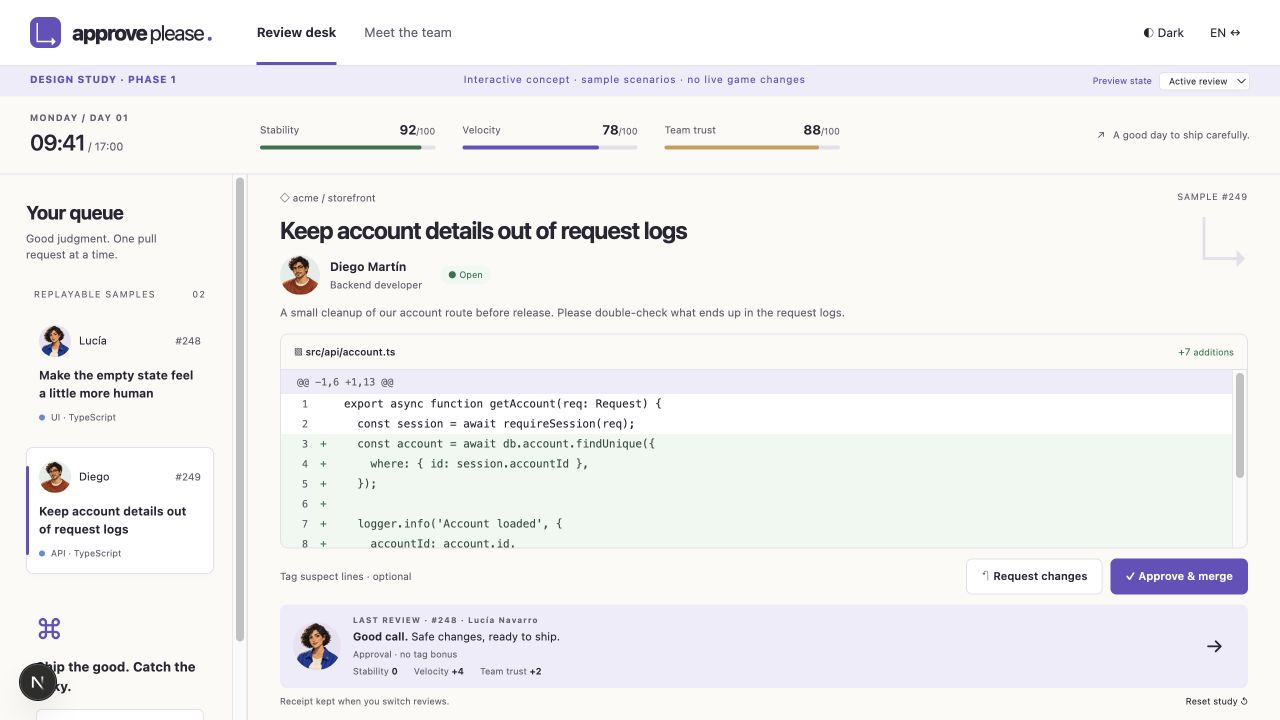
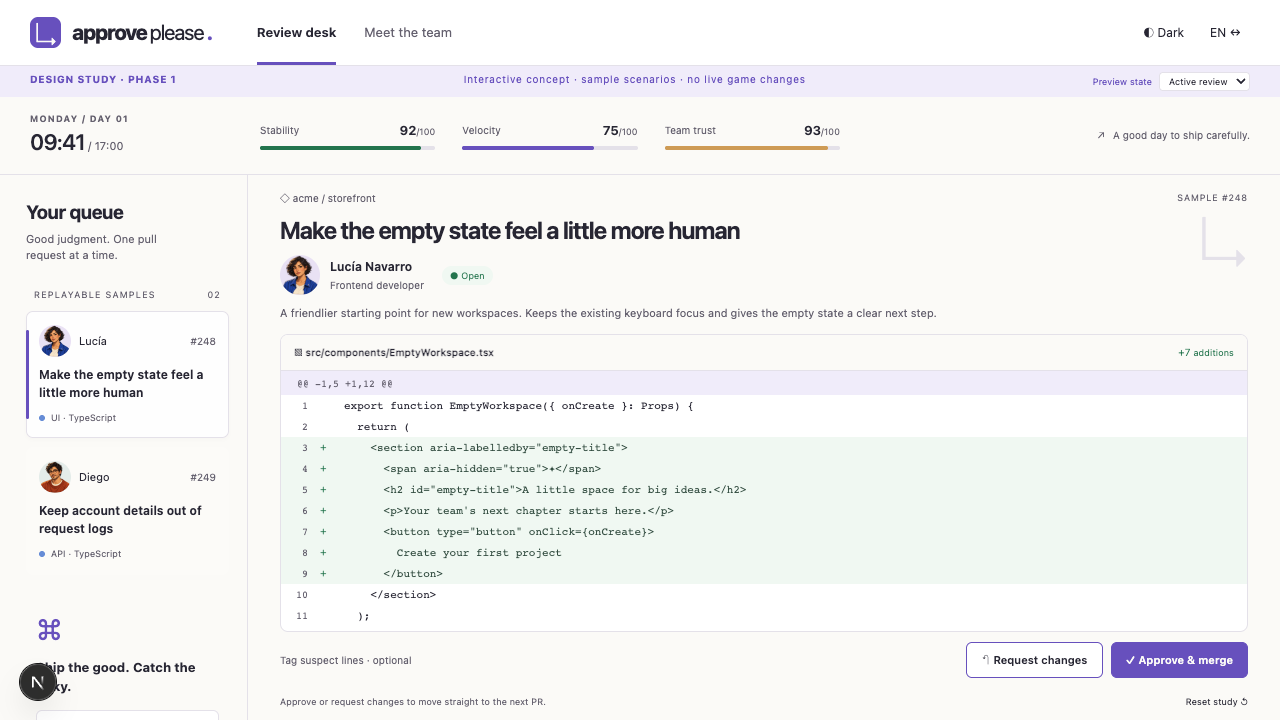
feat: auto-advance design reviews with a quick swipe

diff --git a/constants/designStudyCopy.ts b/constants/designStudyCopy.ts
@@ -1,9 +1,9 @@
 /** Isolated, bilingual design-study content; exposed through the main translation table. */
 export const designStudyCopy = {
   en: {
-    previewState: 'Preview state', activeState: 'Active review', emptyState: 'Empty queue', emptyTitle: 'All caught up. Take a breath.', emptyBody: 'The next review will appear here when a teammate sends it. Your last receipt stays available.', emptyHint: 'No pull requests waiting', completed: 'Reviewed · switch PR or reset to replay', preview: 'DESIGN STUDY · PHASE 1', previewNote: 'Interactive concept · sample scenarios · no live game changes', desk: 'Review desk', cast: 'Meet the team', theme: 'Switch color theme', queue: 'Your queue', queueHint: 'Good judgment. One pull request at a time.', waiting: 'REPLAYABLE SAMPLES', rules: 'Review handbook', rulesIntro: 'Ship the good. Catch the risky.', rulesBody: 'Approve changes that are safe to ship. Request changes when you find a bug. Tagging is optional: a correct rejection still counts. Precise tags earn a bonus; unrelated tags do not.', rulesNote: 'This concept has no timer. Your decisions update sample meters only.', close: 'Close', shift: 'MONDAY / DAY 01', time: '09:41', stability: 'Stability', velocity: 'Velocity', satisfaction: 'Team trust', repository: 'acme / storefront', branch: 'feature / a-little-more-polish', reviewedBadge: 'Reviewed', open: 'Open', changed: 'Changed file', additions: 'additions', context: 'context', select: 'Tag line', selected: 'lines tagged', optional: 'Tag suspect lines · optional', request: 'Request changes', approve: 'Approve & merge', reset: 'Reset study', noReceipt: 'Your next decision deserves a clear explanation.', receiptHint: 'A review receipt stays here when you move to another PR.', receipt: 'LAST REVIEW', correct: 'Good call.', incorrect: 'Worth another look.', precise: 'Precise tags · bonus earned', untagged: 'No tags · verdict still evaluated', inaccurate: 'Tags did not identify a bug', mixed: 'Mixed tags · no precision bonus', notApplicable: 'Approval · no tag bonus', cleanOutcome: 'Safe changes, ready to ship.', caughtOutcome: 'Bug caught before production.', escapedOutcome: 'A bug slipped into production.', falseOutcome: 'These changes were safe to ship.', reviewed: 'Reviewed · replay available', next: 'Review next PR', luciaRole: 'Frontend developer', diegoRole: 'Backend developer', luciaTitle: 'Make the empty state feel a little more human', diegoTitle: 'Keep account details out of request logs', luciaDescription: 'A friendlier starting point for new workspaces. Keeps the existing keyboard focus and gives the empty state a clear next step.', diegoDescription: 'A small cleanup of our account route before release. Please double-check what ends up in the request logs.', luciaMessage: '“The first empty screen is part of the product, too.”', diegoMessage: '“Small diff. Still deserves a proper look.”', sample: 'SAMPLE', teamHeading: 'People behind the pull requests.', teamIntro: 'Two coworkers. Three expressions. A visual study for a team you will get to know through its work.', neutral: 'Neutral', pleased: 'Pleased', concerned: 'Concerned', portraitNote: 'Expressions appear after decisions, never as hints before review.', scale: 'In the interface', back: 'Back to the desk', details: 'Review details', handbookTitle: 'The review handbook', emptySelection: 'Select a code row to tag it. Select it again to remove the tag.', luciaReaction: '“Nice. One less rough edge.”', diegoReaction: '“Thanks for giving that a second look.”', failedReaction: '“Let’s take another pass together.”', liveRules: 'Safe changes → approve. Bugs → request changes.', characterLabel: 'Character portrait', clear: 'Clear tags', deskTitle: 'A good day to ship carefully.', deskSubtitle: 'Two teammates are waiting for your eyes.', codeLabel: 'Selectable code diff', selectionMark: 'Tagged', rationale: 'Decision explanation', changeThemeLight: 'Light', changeThemeDark: 'Dark', meterChange: 'Applied change', nextHint: 'Receipt kept when you switch reviews.',
+    previewState: 'Preview state', activeState: 'Active review', emptyState: 'Empty queue', emptyTitle: 'All caught up. Take a breath.', emptyBody: 'The next review will appear here when a teammate sends it. ', emptyHint: 'No pull requests waiting', completed: 'Reviewed · switch PR or reset to replay', preview: 'DESIGN STUDY · PHASE 1', previewNote: 'Interactive concept · sample scenarios · no live game changes', desk: 'Review desk', cast: 'Meet the team', theme: 'Switch color theme', queue: 'Your queue', queueHint: 'Good judgment. One pull request at a time.', waiting: 'REPLAYABLE SAMPLES', rules: 'Review handbook', rulesIntro: 'Ship the good. Catch the risky.', rulesBody: 'Approve changes that are safe to ship. Request changes when you find a bug. Tagging is optional: a correct rejection still counts. Precise tags earn a bonus; unrelated tags do not.', rulesNote: 'This concept has no timer. Your decisions update sample meters only.', close: 'Close', shift: 'MONDAY / DAY 01', time: '09:41', stability: 'Stability', velocity: 'Velocity', satisfaction: 'Team trust', repository: 'acme / storefront', branch: 'feature / a-little-more-polish', reviewedBadge: 'Reviewed', open: 'Open', changed: 'Changed file', additions: 'additions', context: 'context', select: 'Tag line', selected: 'lines tagged', optional: 'Tag suspect lines · optional', request: 'Request changes', approve: 'Approve & merge', reset: 'Reset study', noReceipt: 'Your next decision deserves a clear explanation.', receiptHint: 'A review receipt stays here when you move to another PR.', receipt: 'LAST REVIEW', correct: 'Good call.', incorrect: 'Worth another look.', precise: 'Precise tags · bonus earned', untagged: 'No tags · verdict still evaluated', inaccurate: 'Tags did not identify a bug', mixed: 'Mixed tags · no precision bonus', notApplicable: 'Approval · no tag bonus', cleanOutcome: 'Safe changes, ready to ship.', caughtOutcome: 'Bug caught before production.', escapedOutcome: 'A bug slipped into production.', falseOutcome: 'These changes were safe to ship.', reviewed: 'Reviewed · replay available', next: 'Review next PR', luciaRole: 'Frontend developer', diegoRole: 'Backend developer', luciaTitle: 'Make the empty state feel a little more human', diegoTitle: 'Keep account details out of request logs', luciaDescription: 'A friendlier starting point for new workspaces. Keeps the existing keyboard focus and gives the empty state a clear next step.', diegoDescription: 'A small cleanup of our account route before release. Please double-check what ends up in the request logs.', luciaMessage: '“The first empty screen is part of the product, too.”', diegoMessage: '“Small diff. Still deserves a proper look.”', sample: 'SAMPLE', teamHeading: 'People behind the pull requests.', teamIntro: 'Two coworkers. Three expressions. A visual study for a team you will get to know through its work.', neutral: 'Neutral', pleased: 'Pleased', concerned: 'Concerned', portraitNote: 'Expressions appear after decisions, never as hints before review.', scale: 'In the interface', back: 'Back to the desk', details: 'Review details', handbookTitle: 'The review handbook', emptySelection: 'Select a code row to tag it. Select it again to remove the tag.', luciaReaction: '“Nice. One less rough edge.”', diegoReaction: '“Thanks for giving that a second look.”', failedReaction: '“Let’s take another pass together.”', liveRules: 'Safe changes → approve. Bugs → request changes.', characterLabel: 'Character portrait', clear: 'Clear tags', deskTitle: 'A good day to ship carefully.', deskSubtitle: 'Two teammates are waiting for your eyes.', codeLabel: 'Selectable code diff', selectionMark: 'Tagged', rationale: 'Decision explanation', changeThemeLight: 'Light', changeThemeDark: 'Dark', meterChange: 'Applied change', nextHint: 'Approve or request changes to move straight to the next PR.',
   },
   es: {
-    previewState: 'Estado de ejemplo', activeState: 'Revisión activa', emptyState: 'Bandeja vacía', emptyTitle: 'Todo al día. Toma un respiro.', emptyBody: 'La próxima revisión aparecerá aquí cuando la envíe un compañero. El último resultado sigue disponible.', emptyHint: 'No hay PR pendientes', completed: 'Revisada · cambia de PR o reinicia para repetir', preview: 'ESTUDIO DE DISEÑO · FASE 1', previewNote: 'Concepto interactivo · ejemplos · sin cambios en la partida', desk: 'Mesa de revisión', cast: 'Conoce al equipo', theme: 'Cambiar tema', queue: 'Tu bandeja', queueHint: 'Buen criterio. Una revisión cada vez.', waiting: 'EJEMPLOS PARA REPETIR', rules: 'Manual de revisión', rulesIntro: 'Aprueba lo bueno. Detecta los riesgos.', rulesBody: 'Aprueba los cambios seguros. Solicita cambios si encuentras un error. Marcar líneas es opcional: un rechazo correcto sigue contando. Las marcas precisas dan una bonificación; las incorrectas no.', rulesNote: 'Este concepto no tiene reloj activo. Las decisiones solo afectan a indicadores de ejemplo.', close: 'Cerrar', shift: 'LUNES / DÍA 01', time: '09:41', stability: 'Estabilidad', velocity: 'Velocidad', satisfaction: 'Confianza', repository: 'acme / storefront', branch: 'feature / a-little-more-polish', reviewedBadge: 'Revisada', open: 'Abierta', changed: 'Archivo modificado', additions: 'añadidas', context: 'contexto', select: 'Marcar línea', selected: 'líneas marcadas', optional: 'Marca líneas sospechosas · opcional', request: 'Solicitar cambios', approve: 'Aprobar e integrar', reset: 'Reiniciar estudio', noReceipt: 'Tu próxima decisión merece una explicación clara.', receiptHint: 'El resultado seguirá aquí cuando pases a otra PR.', receipt: 'ÚLTIMA REVISIÓN', correct: 'Buen criterio.', incorrect: 'Conviene revisarlo.', precise: 'Marcas precisas · bonificación', untagged: 'Sin marcas · decisión evaluada', inaccurate: 'Las marcas no identificaron un error', mixed: 'Marcas mixtas · sin bonificación', notApplicable: 'Aprobación · sin bonificación por marcas', cleanOutcome: 'Cambios seguros, listos para integrar.', caughtOutcome: 'Error detectado antes de producción.', escapedOutcome: 'Un error llegó a producción.', falseOutcome: 'Estos cambios eran seguros.', reviewed: 'Revisada · puedes repetirla', next: 'Revisar siguiente PR', luciaRole: 'Desarrolladora frontend', diegoRole: 'Desarrollador backend', luciaTitle: 'Un estado vacío un poco más humano', diegoTitle: 'Evitar datos de cuentas en los registros', luciaDescription: 'Un inicio más amable para los espacios nuevos. Conserva el foco del teclado y ofrece un siguiente paso claro.', diegoDescription: 'Un pequeño ajuste de la ruta de cuentas antes de publicar. Revisa bien qué datos acaban en los registros.', luciaMessage: '«La primera pantalla vacía también es producto.»', diegoMessage: '«Pocos cambios. Merecen una buena revisión.»', sample: 'EJEMPLO', teamHeading: 'Las personas detrás de las PR.', teamIntro: 'Dos compañeros. Tres expresiones. Un estudio visual de un equipo que conocerás a través de su trabajo.', neutral: 'Neutral', pleased: 'Contento/a', concerned: 'Preocupado/a', portraitNote: 'Las expresiones aparecen después de decidir, nunca como pistas antes de revisar.', scale: 'En la interfaz', back: 'Volver a la mesa', details: 'Detalles de revisión', handbookTitle: 'El manual de revisión', emptySelection: 'Selecciona una línea para marcarla. Selecciónala de nuevo para quitar la marca.', luciaReaction: '«Bien. Un detalle más resuelto.»', diegoReaction: '«Gracias por revisarlo con calma.»', failedReaction: '«Vamos a darle otra vuelta juntos.»', liveRules: 'Cambios seguros → aprobar. Errores → solicitar cambios.', characterLabel: 'Retrato del personaje', clear: 'Quitar marcas', deskTitle: 'Un buen día para revisar con calma.', deskSubtitle: 'Dos compañeros esperan tu revisión.', codeLabel: 'Diff con líneas seleccionables', selectionMark: 'Marcada', rationale: 'Explicación de la decisión', changeThemeLight: 'Claro', changeThemeDark: 'Oscuro', meterChange: 'Cambio aplicado', nextHint: 'El resultado se conserva al cambiar de PR.',
+    previewState: 'Estado de ejemplo', activeState: 'Revisión activa', emptyState: 'Bandeja vacía', emptyTitle: 'Todo al día. Toma un respiro.', emptyBody: 'La próxima revisión aparecerá aquí cuando la envíe un compañero. ', emptyHint: 'No hay PR pendientes', completed: 'Revisada · cambia de PR o reinicia para repetir', preview: 'ESTUDIO DE DISEÑO · FASE 1', previewNote: 'Concepto interactivo · ejemplos · sin cambios en la partida', desk: 'Mesa de revisión', cast: 'Conoce al equipo', theme: 'Cambiar tema', queue: 'Tu bandeja', queueHint: 'Buen criterio. Una revisión cada vez.', waiting: 'EJEMPLOS PARA REPETIR', rules: 'Manual de revisión', rulesIntro: 'Aprueba lo bueno. Detecta los riesgos.', rulesBody: 'Aprueba los cambios seguros. Solicita cambios si encuentras un error. Marcar líneas es opcional: un rechazo correcto sigue contando. Las marcas precisas dan una bonificación; las incorrectas no.', rulesNote: 'Este concepto no tiene reloj activo. Las decisiones solo afectan a indicadores de ejemplo.', close: 'Cerrar', shift: 'LUNES / DÍA 01', time: '09:41', stability: 'Estabilidad', velocity: 'Velocidad', satisfaction: 'Confianza', repository: 'acme / storefront', branch: 'feature / a-little-more-polish', reviewedBadge: 'Revisada', open: 'Abierta', changed: 'Archivo modificado', additions: 'añadidas', context: 'contexto', select: 'Marcar línea', selected: 'líneas marcadas', optional: 'Marca líneas sospechosas · opcional', request: 'Solicitar cambios', approve: 'Aprobar e integrar', reset: 'Reiniciar estudio', noReceipt: 'Tu próxima decisión merece una explicación clara.', receiptHint: 'El resultado seguirá aquí cuando pases a otra PR.', receipt: 'ÚLTIMA REVISIÓN', correct: 'Buen criterio.', incorrect: 'Conviene revisarlo.', precise: 'Marcas precisas · bonificación', untagged: 'Sin marcas · decisión evaluada', inaccurate: 'Las marcas no identificaron un error', mixed: 'Marcas mixtas · sin bonificación', notApplicable: 'Aprobación · sin bonificación por marcas', cleanOutcome: 'Cambios seguros, listos para integrar.', caughtOutcome: 'Error detectado antes de producción.', escapedOutcome: 'Un error llegó a producción.', falseOutcome: 'Estos cambios eran seguros.', reviewed: 'Revisada · puedes repetirla', next: 'Revisar siguiente PR', luciaRole: 'Desarrolladora frontend', diegoRole: 'Desarrollador backend', luciaTitle: 'Un estado vacío un poco más humano', diegoTitle: 'Evitar datos de cuentas en los registros', luciaDescription: 'Un inicio más amable para los espacios nuevos. Conserva el foco del teclado y ofrece un siguiente paso claro.', diegoDescription: 'Un pequeño ajuste de la ruta de cuentas antes de publicar. Revisa bien qué datos acaban en los registros.', luciaMessage: '«La primera pantalla vacía también es producto.»', diegoMessage: '«Pocos cambios. Merecen una buena revisión.»', sample: 'EJEMPLO', teamHeading: 'Las personas detrás de las PR.', teamIntro: 'Dos compañeros. Tres expresiones. Un estudio visual de un equipo que conocerás a través de su trabajo.', neutral: 'Neutral', pleased: 'Contento/a', concerned: 'Preocupado/a', portraitNote: 'Las expresiones aparecen después de decidir, nunca como pistas antes de revisar.', scale: 'En la interfaz', back: 'Volver a la mesa', details: 'Detalles de revisión', handbookTitle: 'El manual de revisión', emptySelection: 'Selecciona una línea para marcarla. Selecciónala de nuevo para quitar la marca.', luciaReaction: '«Bien. Un detalle más resuelto.»', diegoReaction: '«Gracias por revisarlo con calma.»', failedReaction: '«Vamos a darle otra vuelta juntos.»', liveRules: 'Cambios seguros → aprobar. Errores → solicitar cambios.', characterLabel: 'Retrato del personaje', clear: 'Quitar marcas', deskTitle: 'Un buen día para revisar con calma.', deskSubtitle: 'Dos compañeros esperan tu revisión.', codeLabel: 'Diff con líneas seleccionables', selectionMark: 'Marcada', rationale: 'Explicación de la decisión', changeThemeLight: 'Claro', changeThemeDark: 'Oscuro', meterChange: 'Cambio aplicado', nextHint: 'Aprueba o solicita cambios para pasar directamente a la siguiente PR.',
   }
 };

diff --git a/pages/dev/design.tsx b/pages/dev/design.tsx
@@ -33,7 +33,9 @@ export default function DesignStudy() {
   const { locale, setLocale } = useLocale();
   const [dark, setDark] = useState(false);
   const [empty, setEmpty] = useState(false);
-  const [completed, setCompleted] = useState(false);
+  const [swipe, setSwipe] = useState<ReviewVerdict | null>(null);
+  const completed = swipe !== null;
+  const decisionLocked = useRef(false);
   const [view, setView] = useState<'desk' | 'cast'>('desk');
   const [person, setPerson] = useState<Person>('lucia');
   const [selected, setSelected] = useState<number[]>([]);
@@ -49,15 +51,26 @@ export default function DesignStudy() {
   const title = (who: Person) => who === 'lucia' ? t.luciaTitle : t.diegoTitle;
   const role = (who: Person) => who === 'lucia' ? t.luciaRole : t.diegoRole;
   const filename = person === 'lucia' ? 'src/components/EmptyWorkspace.tsx' : 'src/api/account.ts';
-  const choose = (who: Person) => { setPerson(who); setSelected([]); setCompleted(false); setPanel(null); };
+  useEffect(() => {
+    if (!swipe) return;
+    const timer = window.setTimeout(() => {
+      setPerson(who => who === 'lucia' ? 'diego' : 'lucia');
+      setSelected([]);
+      setSwipe(null);
+      decisionLocked.current = false;
+    }, window.matchMedia('(prefers-reduced-motion: reduce)').matches ? 0 : 200);
+    return () => window.clearTimeout(timer);
+  }, [swipe]);
+  const choose = (who: Person) => { setPerson(who); setSelected([]); setSwipe(null); decisionLocked.current = false; setPanel(null); };
   const decide = (verdict: ReviewVerdict) => {
-    if (empty || completed) return;
+    if (empty || decisionLocked.current) return;
+    decisionLocked.current = true;
     const pr: PullRequest = { id: person, templateId: `design-study-${person}`, title: title(person), author: names[person], authorId: person,
       description: '', tags: [], importance: 'normal', estimatedReviewSeconds: 30,
       files: [{ filename, language: 'typescript', lines: lines[person].map((content, i) => ({ content, lineNumber: i + 1, isNew: i >= 2 && i <= 8 })) }],
       bugPatterns: person === 'diego' ? [{ kind: 'security', severity: 'critical', lineNumbers: [9] }] : [] };
     const result = evaluateDecision(normalizePullRequest(pr), verdict, selected.map(n => ({ filename, rowId: `line-${n}` })), meters);
-    setReceipt({ ...result, person }); setMeters(result.metersAfter); setCompleted(true);
+    setReceipt({ ...result, person }); setMeters(result.metersAfter); setSwipe(verdict);
   };
   const queue = <><div className={styles.queueHeading}><span>{t.waiting}</span><span>{empty ? '00' : '02'}</span></div>{empty ? <p className={styles.emptyQueue}>{t.emptyHint}</p> : people.map((who, i) => <button key={who} className={`${styles.queueItem} ${person === who ? styles.activeQueue : ''}`} onClick={() => choose(who)} aria-pressed={person === who}><div className={styles.queueMeta}><Portrait person={who} size={32} /><span>{names[who].split(' ')[0]}</span><span>#{248 + i}</span></div><strong>{title(who)}</strong><small><span className={styles.dot} />{who === 'lucia' ? 'UI · TypeScript' : 'API · TypeScript'}</small></button>)}</>;
   const precision = receipt ? ({ precise: t.precise, untagged: t.untagged, inaccurate: t.inaccurate, mixed: t.mixed, 'not-applicable': t.notApplicable }[receipt.precision]) : '';
@@ -65,15 +78,15 @@ export default function DesignStudy() {
   return <div className={styles.study} data-dark={dark}>
     <Head><title>{`Approve Please · ${t.preview}`}</title></Head>
     <header className={styles.topbar}><Link className={styles.brand} href="/dev/design"><span className={styles.brandIcon}>↳</span>approve<span>please</span><span className={styles.brandPeriod}>.</span></Link><nav aria-label={t.preview}><button aria-pressed={view === 'desk'} onClick={() => setView('desk')}>{t.desk}</button><button aria-pressed={view === 'cast'} onClick={() => setView('cast')}>{t.cast}</button></nav><div className={styles.preferences}><button aria-label={t.theme} onClick={() => setDark(!dark)}>{dark ? '☀' : '◐'} <span>{dark ? t.changeThemeLight : t.changeThemeDark}</span></button><button onClick={() => setLocale(locale === 'en' ? 'es' : 'en')} aria-label={locale === 'en' ? 'Cambiar a español' : 'Switch to English'}>{locale.toUpperCase()} ↔</button></div></header>
-    <div className={styles.previewBar}><span>{t.preview}</span><span>{t.previewNote}</span><label className={styles.previewControl}>{t.previewState}<select aria-controls="study-review" value={empty ? 'empty' : 'active'} onChange={e => { setEmpty(e.target.value === 'empty'); setSelected([]); }}><option value="active">{t.activeState}</option><option value="empty">{t.emptyState}</option></select></label></div>
+    <div className={styles.previewBar}><span>{t.preview}</span><span>{t.previewNote}</span><label className={styles.previewControl}>{t.previewState}<select aria-controls="study-review" value={empty ? 'empty' : 'active'} onChange={e => { setEmpty(e.target.value === 'empty'); setSelected([]); setSwipe(null); decisionLocked.current = false; }}><option value="active">{t.activeState}</option><option value="empty">{t.emptyState}</option></select></label></div>
     {view === 'cast' ? <main className={styles.cast}><span className={styles.eyebrow}>{t.cast}</span><h1>{t.teamHeading}</h1><p>{t.teamIntro}</p><div className={styles.castGrid}>{people.map(who => <section className={styles.castCard} key={who}><div className={styles.castName}><h2>{names[who]}</h2><span>{role(who)}</span></div><div className={styles.expressions}>{(['neutral', 'pleased', 'concerned'] as const).map(expression => <figure key={expression}><Portrait person={who} expression={expression} size={160} /><figcaption>{t[expression]}</figcaption></figure>)}</div><div className={styles.scale}><span>{t.scale}</span><Portrait person={who} size={32} /><Portrait person={who} size={48} /></div><blockquote>{who === 'lucia' ? t.luciaMessage : t.diegoMessage}</blockquote></section>)}</div><p>{t.portraitNote}</p><button className={styles.primary} onClick={() => setView('desk')}>{t.back} ↗</button></main> : <>
       <div className={styles.shiftbar}><div><span className={styles.eyebrow}>{t.shift}</span><strong>{t.time}<span> / 17:00</span></strong></div><div className={styles.meters}>{(Object.keys(meters) as (keyof MeterSet)[]).map(key => <div key={key}><span>{t[key]}<b>{meters[key]}<small>/100</small></b></span><i><em style={{ width: `${meters[key]}%` }} /></i></div>)}</div><span className={styles.shiftStamp}>↗ <span>{t.deskTitle}</span></span></div>
       <div className={styles.workspace}><aside className={styles.sidebar}><h1>{t.queue}</h1><p>{t.queueHint}</p>{queue}<div className={styles.sidebarBottom}><span className={styles.handbookIcon}>⌘</span><h3>{t.rulesIntro}</h3><button onClick={() => setPanel('rules')}>{t.rules} ↗</button><small>{t.liveRules}</small></div></aside>
-      <main id="study-review" className={styles.main}><div className={styles.mobileTools}><button onClick={() => setPanel('queue')}>{t.queue} · {empty ? '00' : '02'}</button><button onClick={() => setPanel('rules')}>{t.rules} ↗</button></div>{empty ? <section className={styles.emptyReview}><span aria-hidden>✓</span><h1>{t.emptyTitle}</h1><p>{t.emptyBody}</p><button onClick={() => setPanel('rules')}>{t.rules} ↗</button></section> : <><div className={styles.repo}><span>◇ {t.repository}</span><span>{t.sample} #{person === 'lucia' ? 248 : 249}</span></div><div className={styles.prHeading}><div><h1>{title(person)}</h1><div className={styles.author}><Portrait person={person} size={48} /><div><strong>{names[person]}</strong><span>{role(person)}</span></div><span className={styles.openBadge}>● {completed ? t.reviewedBadge : t.open}</span></div></div><span className={styles.prGlyph} aria-hidden>↳</span></div><p className={styles.description}>{person === 'lucia' ? t.luciaDescription : t.diegoDescription}</p>
+      <main id="study-review" className={styles.main} data-swipe={swipe ?? undefined}><div className={styles.mobileTools}><button onClick={() => setPanel('queue')}>{t.queue} · {empty ? '00' : '02'}</button><button onClick={() => setPanel('rules')}>{t.rules} ↗</button></div>{empty ? <section className={styles.emptyReview}><span aria-hidden>✓</span><h1>{t.emptyTitle}</h1><p>{t.emptyBody}</p><button onClick={() => setPanel('rules')}>{t.rules} ↗</button></section> : <><div className={styles.repo}><span>◇ {t.repository}</span><span>{t.sample} #{person === 'lucia' ? 248 : 249}</span></div><div className={styles.prHeading}><div><h1>{title(person)}</h1><div className={styles.author}><Portrait person={person} size={48} /><div><strong>{names[person]}</strong><span>{role(person)}</span></div><span className={styles.openBadge}>● {completed ? t.reviewedBadge : t.open}</span></div></div><span className={styles.prGlyph} aria-hidden>↳</span></div><p className={styles.description}>{person === 'lucia' ? t.luciaDescription : t.diegoDescription}</p>
       <section className={styles.diff} aria-label={t.codeLabel}><div className={styles.fileHeader}><span>▧ <strong>{filename}</strong></span><span className={styles.additionCount}>+7 <span>{t.additions}</span></span></div><div className={styles.codeScroll} tabIndex={0} aria-label={t.codeLabel}><div className={styles.hunk}>@@ {person === 'lucia' ? '-1,5 +1,12' : '-1,6 +1,13'} @@</div>{lines[person].map((line, i) => <button key={`${person}-${i}`} className={`${styles.codeLine} ${i >= 2 && i <= 8 ? styles.addition : ''} ${selected.includes(i + 1) ? styles.selected : ''}`} disabled={completed} aria-pressed={selected.includes(i + 1)} aria-label={`${t.select} ${i + 1}: ${line}`} onClick={() => setSelected(s => s.includes(i + 1) ? s.filter(n => n !== i + 1) : [...s, i + 1])}><span className={styles.lineNumber}>{i + 1}</span><span className={styles.lineMarker}>{selected.includes(i + 1) ? '●' : i >= 2 && i <= 8 ? '+' : ' '}</span><code>{line || ' '}</code></button>)}</div></section></>}
-      <div className={styles.decisionBar}><div><strong>{empty ? t.emptyHint : completed ? t.completed : selected.length ? `${selected.length} ${t.selected}` : t.optional}</strong>{selected.length > 0 && !completed && <button onClick={() => setSelected([])}>{t.clear}</button>}</div><div className={styles.verdicts}><button className={styles.request} disabled={empty || completed} onClick={() => decide('request-changes')}>↶ {t.request}</button><button className={styles.primary} disabled={empty || completed} onClick={() => decide('approve')}>✓ {t.approve}</button></div></div>
-      <section className={`${styles.receipt} ${receipt && !receipt.correct ? styles.warningReceipt : ''}`} aria-live="polite" aria-label={t.rationale}>{receipt ? <><Portrait person={receipt.person} expression={receipt.correct ? 'pleased' : 'concerned'} size={48} /><div className={styles.receiptCopy}><span className={styles.eyebrow}>{t.receipt} · #{receipt.person === 'lucia' ? 248 : 249} · {names[receipt.person]}</span><strong>{receipt.correct ? t.correct : t.incorrect} <span>{outcome}</span></strong><small>{precision}</small><div className={styles.deltas}>{(Object.keys(receipt.appliedMeterDelta) as (keyof MeterSet)[]).map(key => <span key={key}>{t[key]} <b>{receipt.appliedMeterDelta[key] > 0 ? '+' : ''}{receipt.appliedMeterDelta[key]}</b></span>)}</div></div><button className={styles.nextButton} disabled={empty} onClick={() => choose(person === 'lucia' ? 'diego' : 'lucia')} aria-label={t.next}>→</button></> : <><span className={styles.receiptSymbol}>✓</span><div><strong>{t.noReceipt}</strong><p>{t.receiptHint}</p></div></>}</section>
-      <footer className={styles.studyFooter}><span>{t.nextHint}</span><button onClick={() => { setReceipt(null); setMeters(initialMeters); setSelected([]); setPerson('lucia'); setCompleted(false); setEmpty(false); }}>{t.reset} ↺</button></footer></main></div>
+      <div className={styles.decisionBar}><div><strong>{empty ? t.emptyHint : selected.length ? `${selected.length} ${t.selected}` : t.optional}</strong>{selected.length > 0 && !completed && <button onClick={() => setSelected([])}>{t.clear}</button>}</div><div className={styles.verdicts}><button className={styles.request} disabled={empty || completed} onClick={() => decide('request-changes')}>↶ {t.request}</button><button className={styles.primary} disabled={empty || completed} onClick={() => decide('approve')}>✓ {t.approve}</button></div></div>
+      <span className={styles.screenReaderStatus} role="status">{receipt ? `${names[receipt.person]}: ${outcome} ${precision}` : ''}</span>
+      <footer className={styles.studyFooter}><span>{t.nextHint}</span><button onClick={() => { setReceipt(null); setMeters(initialMeters); setSelected([]); setPerson('lucia'); setSwipe(null); decisionLocked.current = false; setEmpty(false); }}>{t.reset} ↺</button></footer></main></div>
     </>}
     <dialog ref={dialog} className={styles.dialog} onCancel={e => { e.preventDefault(); setPanel(null); }} onClick={e => { if (e.target === dialog.current) setPanel(null); }} aria-labelledby="study-dialog-title"><div className={styles.dialogTop}><h2 id="study-dialog-title">{panel === 'queue' ? t.queue : t.handbookTitle}</h2><button onClick={() => setPanel(null)} aria-label={t.close}>×</button></div>{panel === 'queue' ? queue : <><span className={styles.handbookIcon}>⌘</span><h3>{t.rulesIntro}</h3><p>{t.rulesBody}</p><p>{t.emptySelection}</p><small>{t.rulesNote}</small></>}</dialog>
   </div>;

diff --git a/styles/DesignStudy.module.css b/styles/DesignStudy.module.css
@@ -23,3 +23,12 @@
 @media(min-width:1051px) and (min-height:650px){.study{height:100vh;display:flex;flex-direction:column}.topbar,.previewBar,.shiftbar{flex-shrink:0}.workspace{height:auto;min-height:0;flex:1;width:100%;overflow:hidden}.main{min-height:0}.sidebar{min-height:0;overflow:auto}.diff{min-height:120px}.cast{overflow:auto;width:100%}}
 
 .study .codeLine:disabled{opacity:1;cursor:default}.study .codeLine:disabled:hover{background:inherit}.study .addition:disabled:hover{background:var(--addition)}.study .selected:disabled:hover{background:var(--wash)}
+
+/* Verdicts advance immediately after a short directional swipe. */
+.main{overflow-x:clip}
+.main[data-swipe='approve']{animation:reviewApprove .2s ease-in forwards}
+.main[data-swipe='request-changes']{animation:reviewReject .2s ease-in forwards}
+@keyframes reviewApprove{to{transform:translateX(45px);opacity:0}}
+@keyframes reviewReject{to{transform:translateX(-45px);opacity:0}}
+.screenReaderStatus{position:absolute;width:1px;height:1px;padding:0;margin:-1px;overflow:hidden;clip-path:inset(50%);white-space:nowrap}
+@media(prefers-reduced-motion:reduce){.main[data-swipe]{animation:none}}

diff --git a/plans/013-ui-ux-characters-and-authoring.md b/plans/013-ui-ux-characters-and-authoring.md
@@ -204,3 +204,10 @@ Browser QA covers desktop 1280×720, phone 390×844, tablet 768×1024 and constr
 The study is development-only and has no live clock, save, leaderboard or production game integration. All later implementation still targets the preview branch.
 
 Final Phase1 gates:506 tests pass, typecheck/build pass,390 templates validate and manifests remain unchanged, lint has five pre-existing warnings. Production browser check confirms `/dev/design` returns404.
+
+
+## Owner feedback — speed-first review loop
+- [x] Remove the visible Last review panel and manual next arrow from the study.
+- [x] Approve/reject applies the verdict once, swipes the review away in 200 ms, and automatically opens the next sample with cleared tags. Reduced motion skips the animation.
+- [ ] Carry this automatic progression into Phase 2 live gameplay; feedback must not require an extra click or pause.
+This supersedes the study's earlier persistent-receipt presentation. Meter changes remain immediate and results are announced to assistive technology.

diff --git a/docs/design-study/README.md b/docs/design-study/README.md
@@ -18,3 +18,6 @@ Evidence: desktop-light.png, desktop-dark.png, mobile-es.png, tablet-empty.png, 
 Owner visual approval remains the checkpoint before Phase 2. Observed-user comprehension, exhaustive screen-reader testing and OS zoom checks are not claimed here; they remain in the later integration audit.
 
 Validation:506 tests pass (single worker), typecheck and build pass,390 templates validate without manifest changes. Lint has five pre-existing warnings and no errors. A production-server browser request to `/dev/design` displayed404.
+
+## Speed-first revision
+Owner feedback removes the visible Last review panel and next arrow. Verdicts now update meters and automatically advance after a 200 ms directional swipe (instant with reduced motion). Desktop-light evidence is updated; other screenshots above record the earlier study. Verified both verdicts, cleared tags, reduced motion and phone overflow in a real browser; 13 targeted tests, typecheck and lint pass (five existing warnings).
